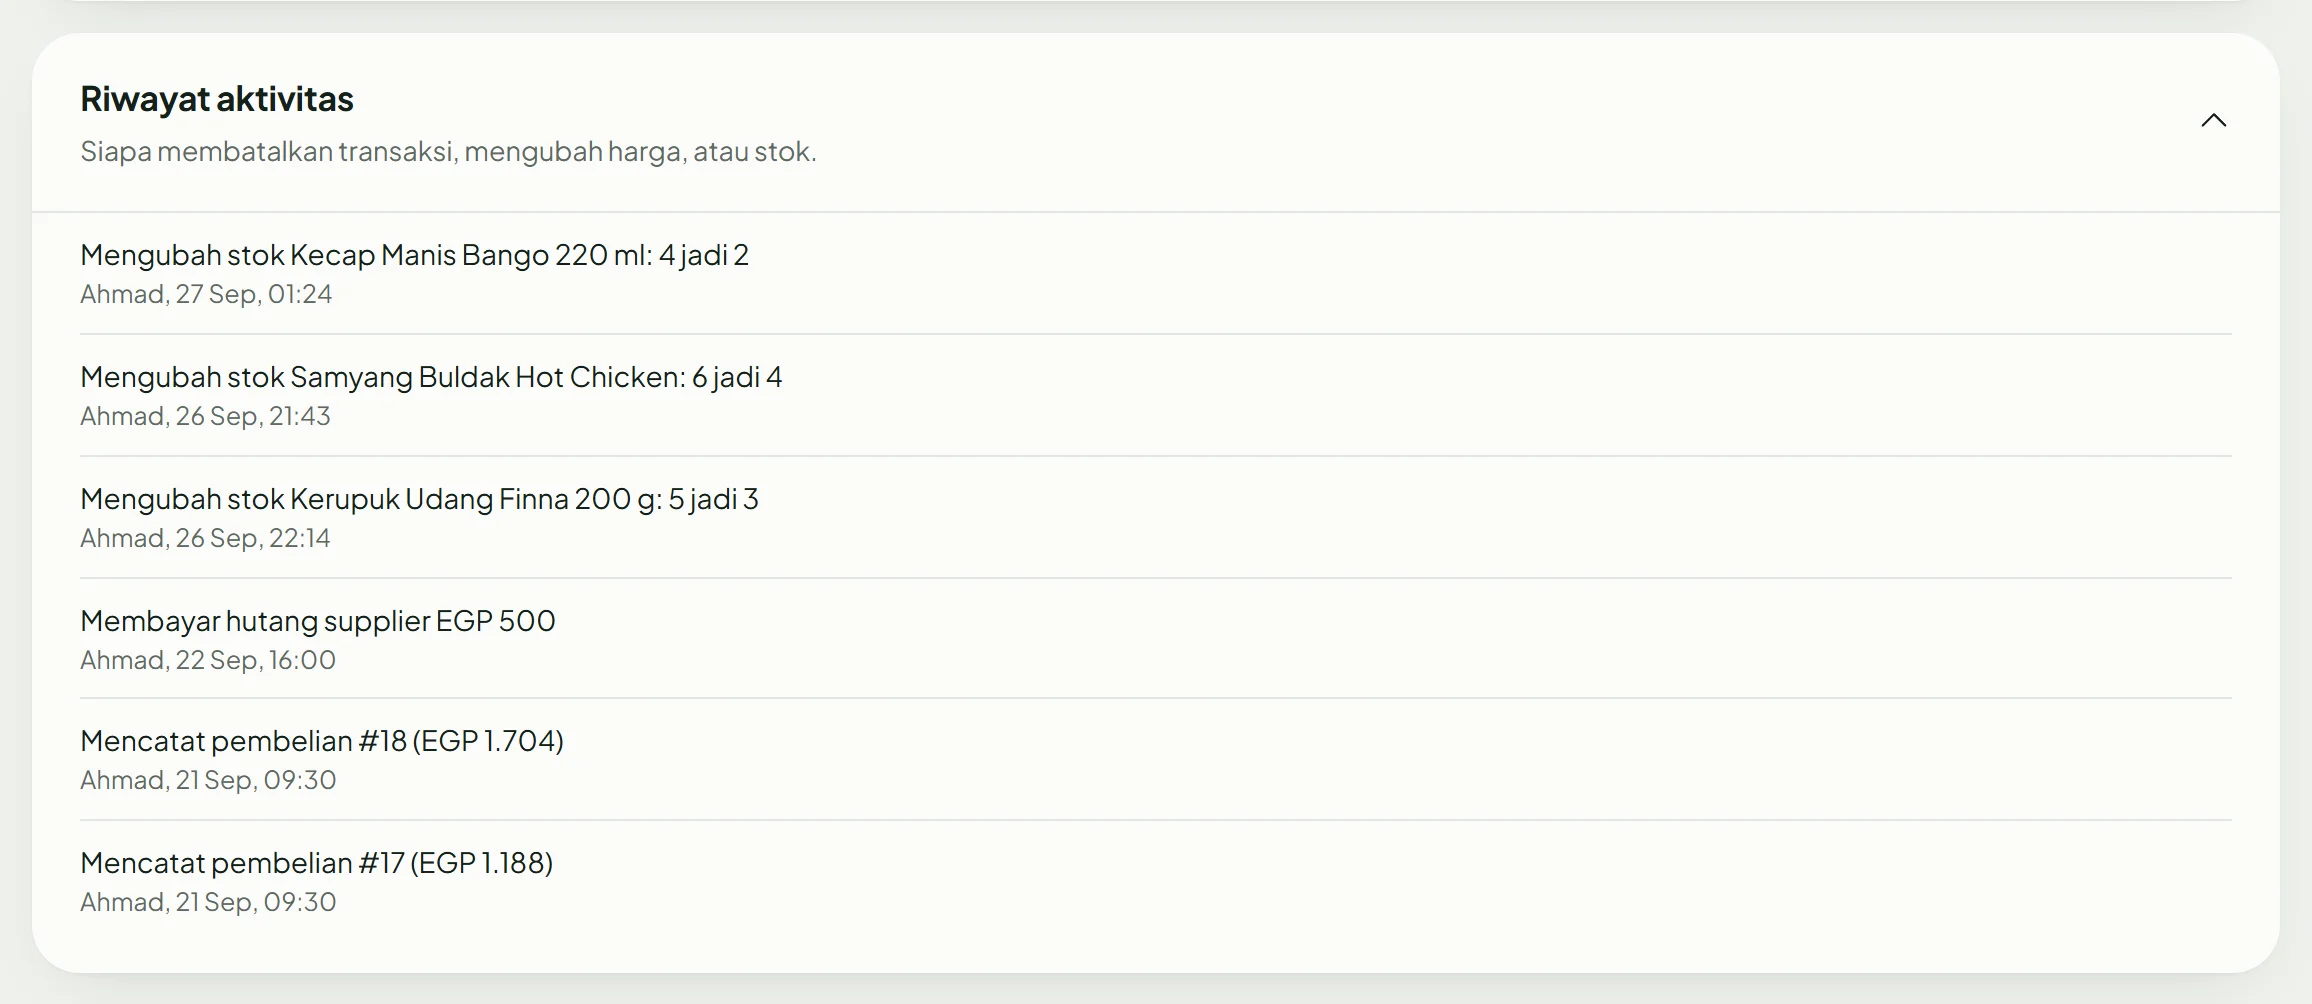
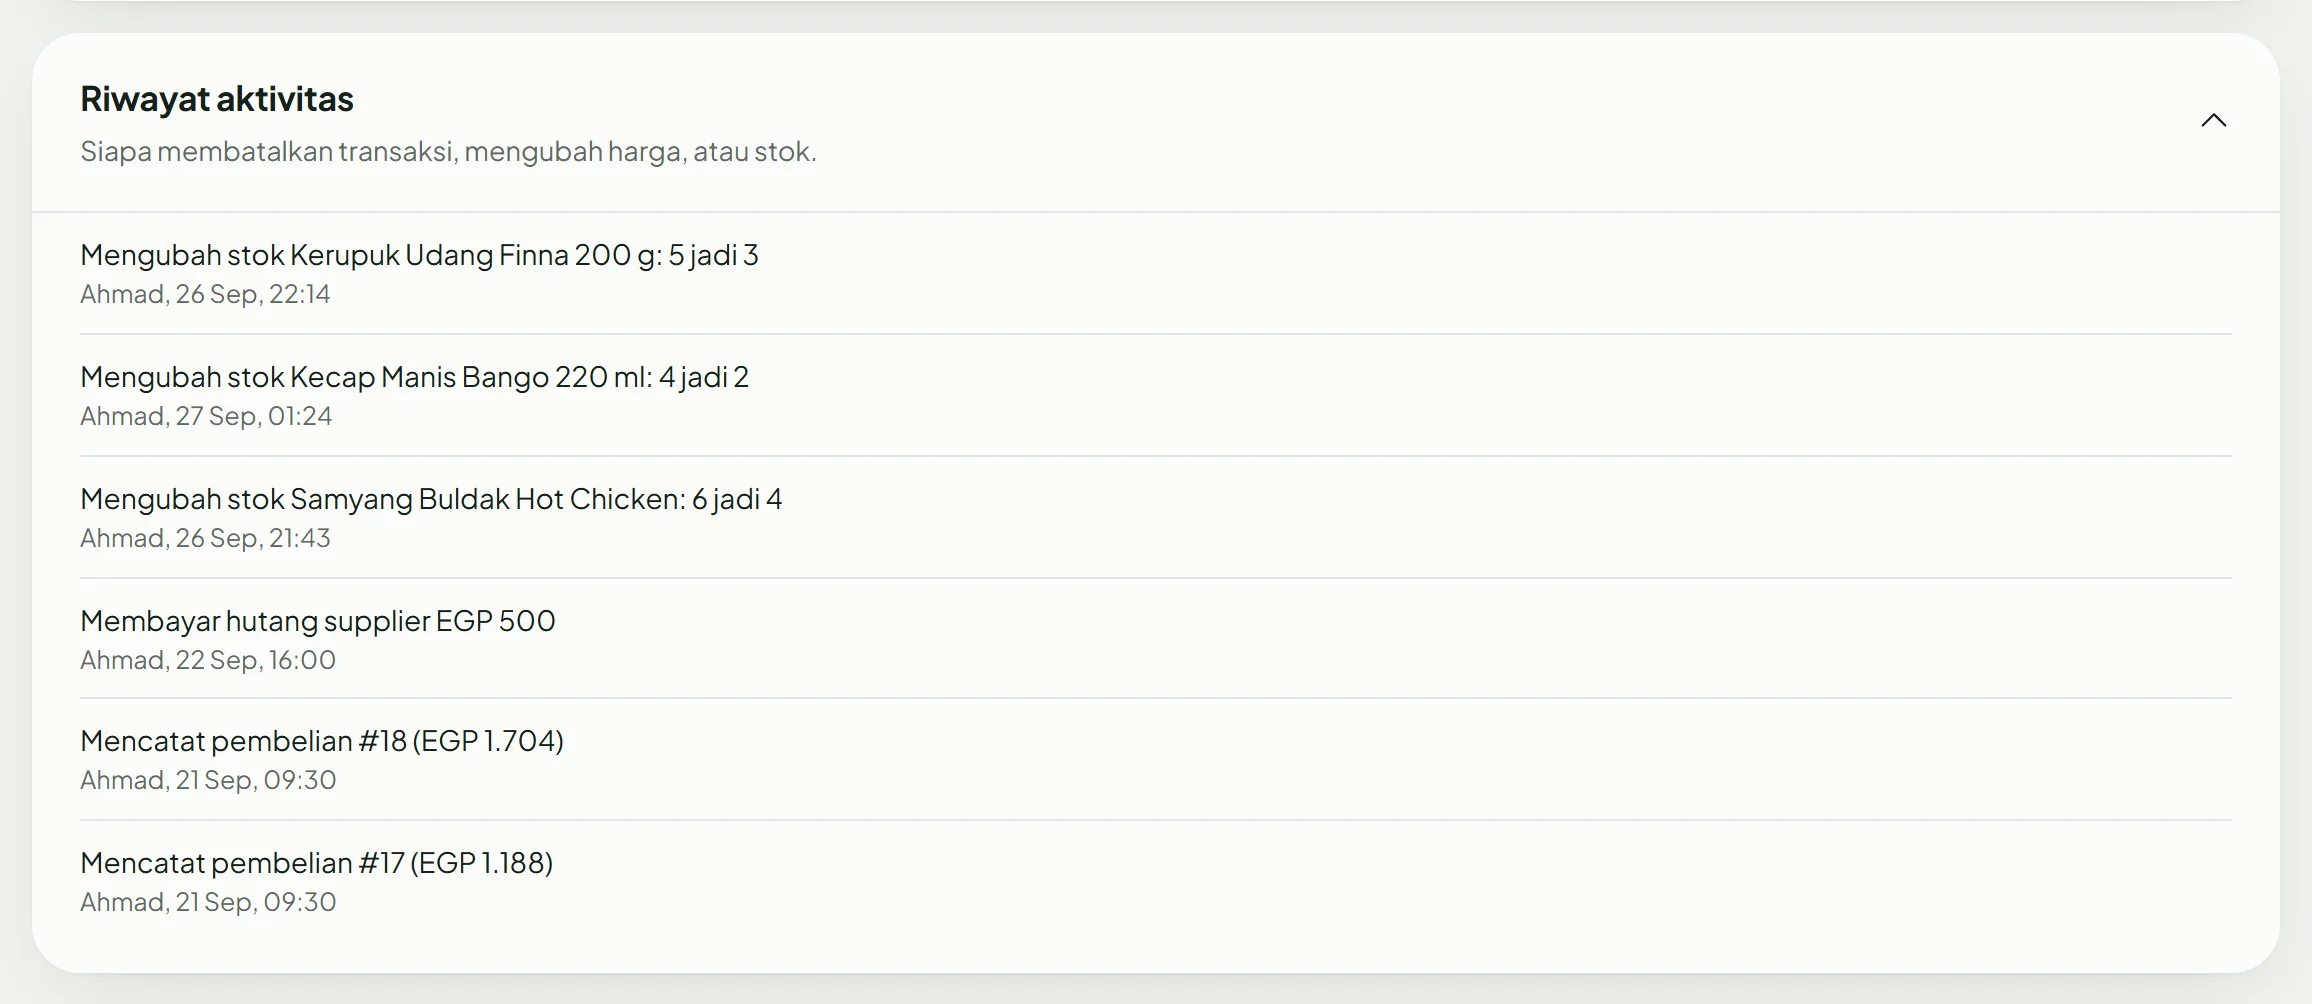
Jam ramai dan urutan slide

Changed region(s): [[0.1246, 0.4631, 0.3426, 0.5558], [0.0934, 0.3705, 0.3426, 0.4323], [0.0934, 0.247, 0.3426, 0.3088]]

diff --git a/src/features/auth/auth-showcase.tsx b/src/features/auth/auth-showcase.tsx
@@ -6,12 +6,6 @@ import { ClipShot, PhoneShot } from './landing-sections';
 // dengan satu kartu potongan layar lain yang "melayang" seperti di contoh desain.
 const SLIDES = [
   {
-    title: 'Tahu untung setiap hari',
-    body: 'Penjualan, laba kotor, uang masuk, dan pengeluaran hari ini langsung terlihat dari HP.',
-    phone: { src: '/screens/dashboard-mobile.webp', alt: 'Dashboard Possir di HP' },
-    card: { src: '/screens/terlaris.webp', alt: 'Tabel produk terlaris dengan laba', width: 1362, height: 922, className: 'w-[250px]' },
-  },
-  {
     title: 'Kasir cepat, stok jalan sendiri',
     body: 'Ketuk produk, pilih cara bayar Mesir, selesai. Setiap penjualan langsung mengurangi stok.',
     phone: { src: '/screens/kasir-mobile.webp', alt: 'Kasir Possir di HP' },
@@ -22,6 +16,12 @@ const SLIDES = [
     body: 'Bayar sebagian, janji bayar, dan pengingat WhatsApp. Kasir diundang dengan kode, semua tercatat.',
     phone: { src: '/screens/piutang-mobile.webp', alt: 'Halaman piutang Possir di HP' },
     card: { src: '/screens/anggota.webp', alt: 'Daftar anggota: pemilik dan kasir', width: 2312, height: 618, className: 'w-[270px]' },
+  },
+  {
+    title: 'Tahu untung setiap hari',
+    body: 'Penjualan, laba kotor, uang masuk, dan pengeluaran hari ini langsung terlihat dari HP.',
+    phone: { src: '/screens/dashboard-mobile.webp', alt: 'Dashboard Possir di HP' },
+    card: { src: '/screens/jam-ramai.webp', alt: 'Grafik jam ramai penjualan', width: 1362, height: 614, className: 'w-[270px]' },
   },
 ] as const;
 

diff --git a/src/features/auth/landing-sections.tsx b/src/features/auth/landing-sections.tsx
@@ -365,7 +365,11 @@ export function GrowthFeatures() {
           body="Lihat barang yang paling laku beserta labanya, dan jam berapa pembeli paling ramai."
           className="md:col-span-12"
         >
-          <ClipShot src="/screens/terlaris.webp" alt="Tabel produk terlaris dengan jumlah terjual, omzet, dan laba" width={1362} height={922} className="max-w-[760px]" />
+          <div className="grid grid-cols-1 items-start gap-4 md:grid-cols-2">
+            {/* dipotong ke 5 produk teratas supaya tidak terlalu tinggi */}
+            <ClipShot src="/screens/terlaris.webp" alt="Tabel 5 produk terlaris dengan jumlah terjual, omzet, dan laba" width={1362} height={922} maxH="250px" />
+            <ClipShot src="/screens/jam-ramai.webp" alt="Grafik jam ramai: penjualan per jam dengan jam tertinggi" width={1362} height={614} />
+          </div>
         </GrowthCell>
         <GrowthCell
           icon={UsersThree}
